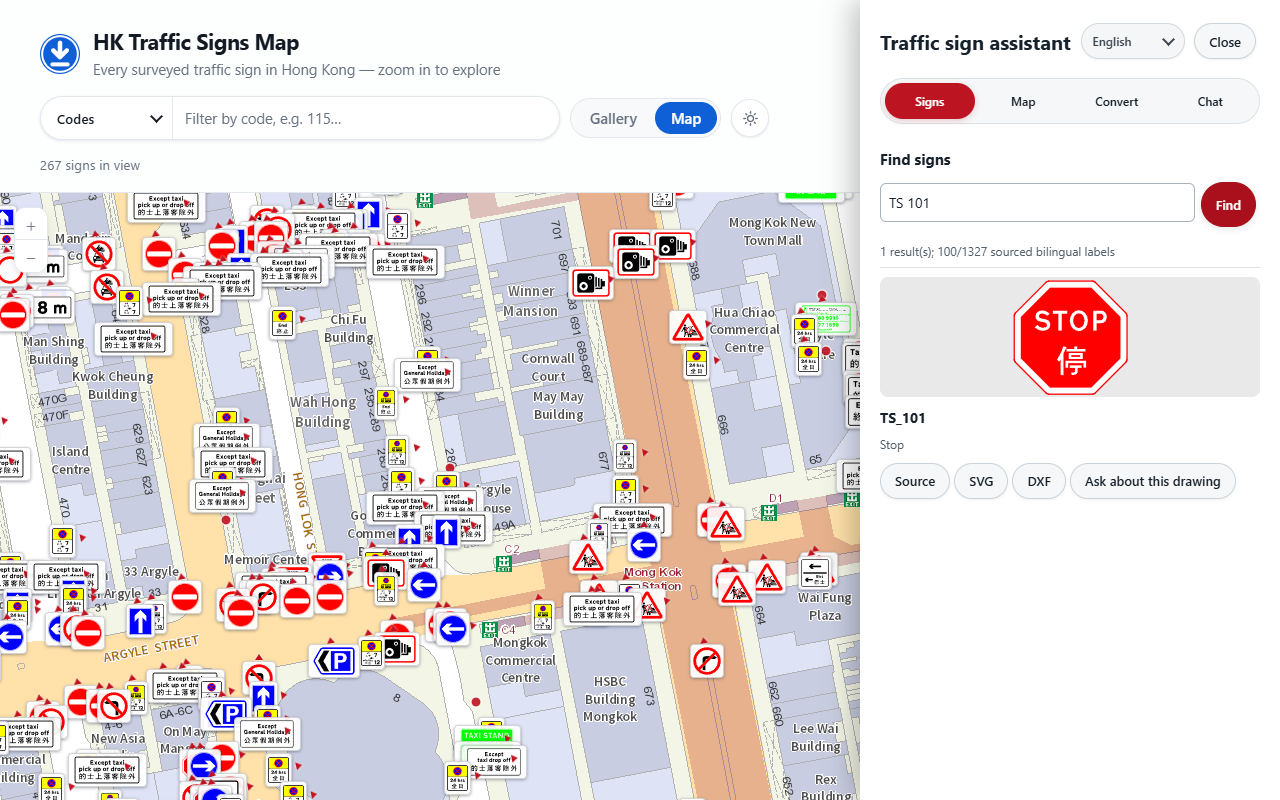
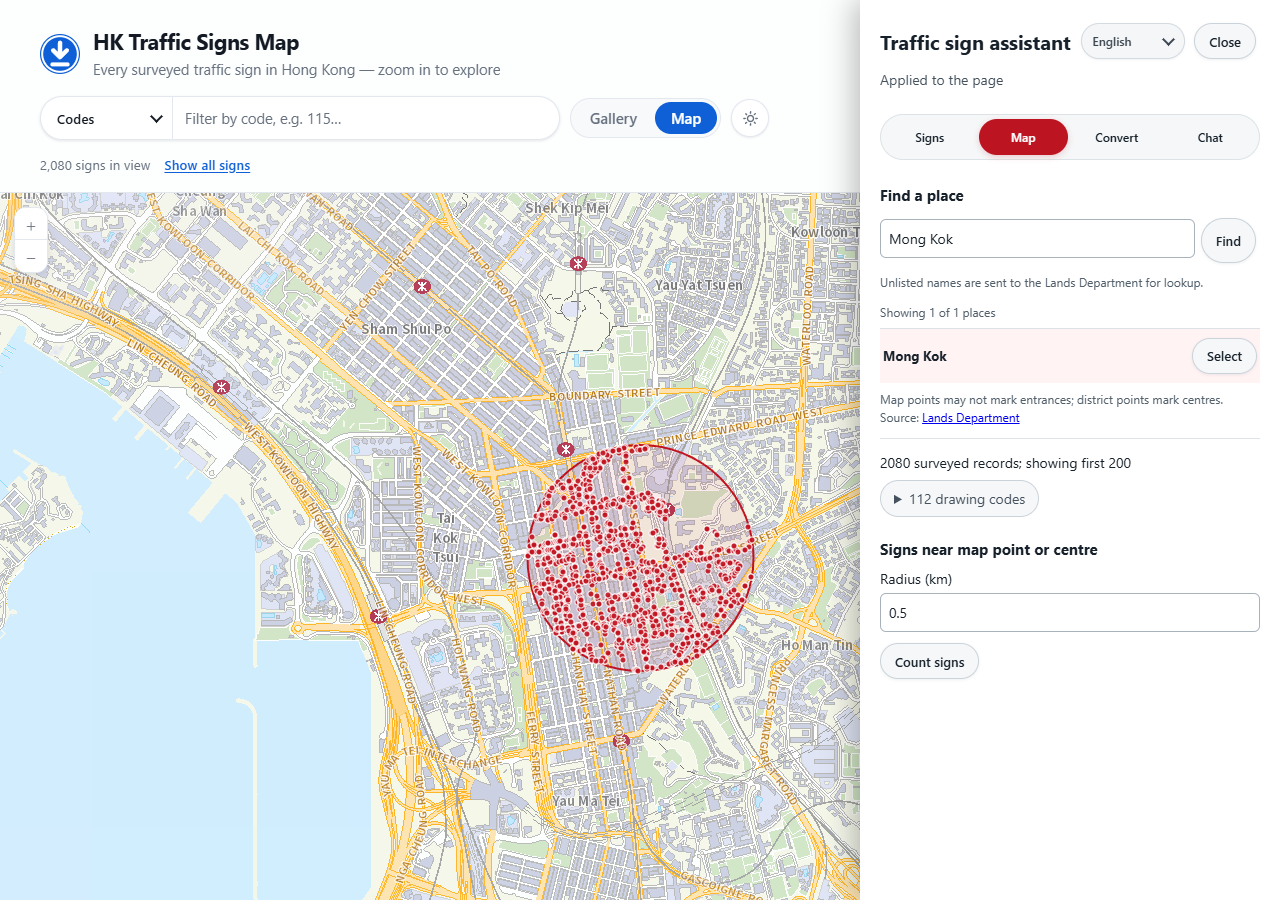
Show assistant map search in README screenshot

diff --git a/README.md b/README.md
@@ -18,7 +18,9 @@ The public site needs no installation or API key. It does not include the assist
 
 The Docker version runs on your computer. It has the same Gallery and Map sections. The **Assistant** button appears only in the Map section.
 
-![Assistant showing a sign search result beside the map](docs/assistant-screenshot.png)
+![Assistant map search showing surveyed signs near Mong Kok](docs/assistant-screenshot.png)
+
+This example searches Mong Kok and highlights the surveyed signs within 0.5 km.
 
 The assistant has four tabs:
 
